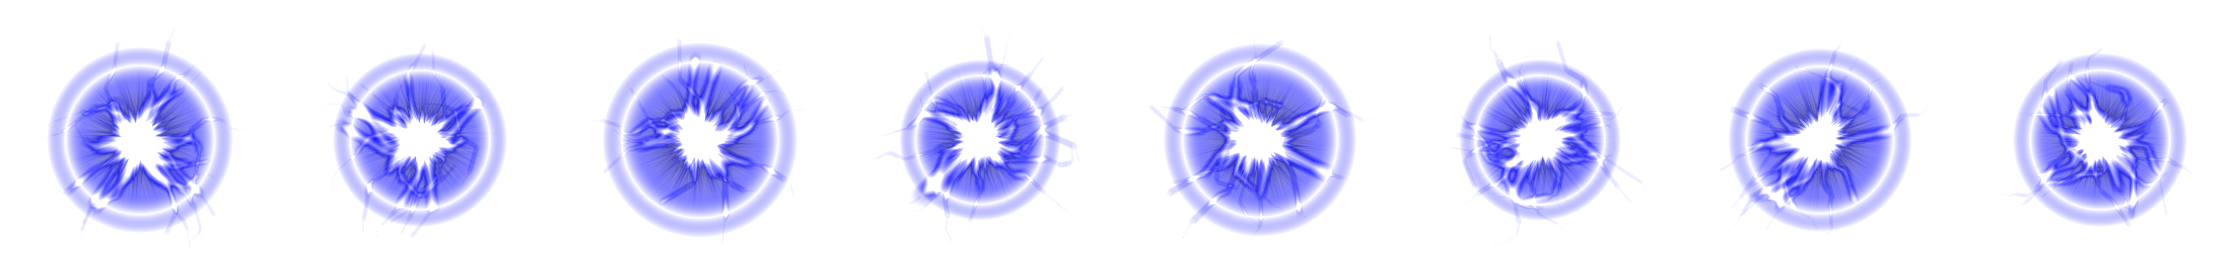
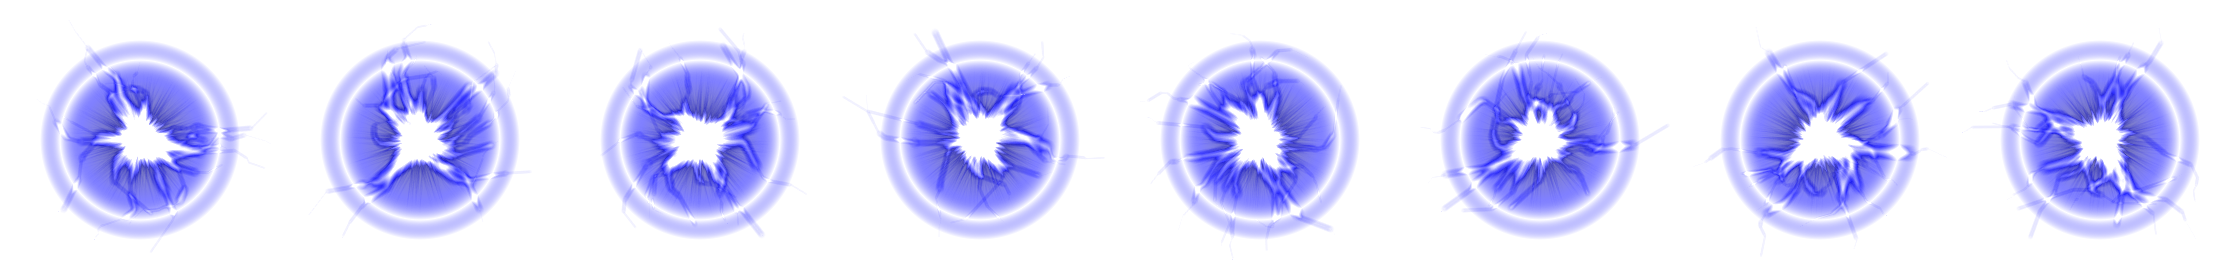
bomb

Changed region(s): [[0.375, 0.1429, 1.0, 0.8571], [0.0, 0.1429, 0.25, 0.8571], [0.2812, 0.1714, 0.3438, 0.8286]]

diff --git a/src/Bomb.js b/src/Bomb.js
@@ -1,6 +1,39 @@
 gls2.Bomb = tm.createClass({
-    init: function(scene) {
-        var b = tm.app.AnimationSprite(tm.app.SpriteSheet({
+    superClass: tm.app.Object2D,
+    gameScene: null,
+    init: function(player, gameScene) {
+        this.superInit();
+
+        this.player = player;
+        this.player.muteki = true;
+
+        this.gameScene = gameScene;
+        this.gameScene.bomb -= 1;
+        this.gameScene.isBombActive = true;
+        this.addChildTo(this.gameScene);
+
+        this.shockwave = tm.app.CircleShape(300, 300, {
+            strokeStyle: "rgba(0,0,0,0)",
+            fillStyle: tm.graphics.RadialGradient(150, 150, 0, 150, 150, 150)
+                .addColorStopList([
+                    { offset: 0.0, color: "rgba(255,255,255,0)" },
+                    { offset: 0.5, color: "rgba(255,255,255,0)" },
+                    { offset: 0.9, color: "rgba(255,255,255,1)" },
+                    { offset: 1.0, color: "rgba(255,255,255,0)" },
+                ])
+                .toStyle()
+        }).setScale(0.1, 0.1).addChildTo(this);
+        this.shockwave.tweener.clear()
+            .to({
+                scaleX: 3,
+                scaleY: 3,
+                alpha: 0,
+            }, 400, "easeOutQuad")
+            .call(function() {
+                this.remove();
+            }.bind(this.shockwave));
+
+        this.core = tm.app.AnimationSprite(tm.app.SpriteSheet({
             image: "bomb",
             frame: {
                 width: 280,
@@ -13,11 +46,22 @@ gls2.Bomb = tm.createClass({
                     frequency: 3,
                 }
             }
-        }), 280, 280).setPosition(SC_W/2, SC_H/2).addChildTo(scene);
-        b.gotoAndPlay("animation");
-        b.blendMode = "lighter";
+        }), 400, 400).addChildTo(this);
+        this.core.gotoAndPlay("animation");
+        this.core.blendMode = "lighter";
+        this.core.setScale(0.1, 0.1);
+        this.core.tweener.clear()
+            .to({
+                scaleX: 1.0,
+                scaleY: 1.0
+            }, 200, "easeOutBack")
+            .call(function() {
+                this.update = function() {
+                    this.scaleX = this.scaleY = Math.randf(0.9, 1.1);
+                };
+            }.bind(this.core));
 
-        var particle = gls2.Particle(60, 1.0, 0.92, tm.graphics.Canvas()
+        this.origParticle = gls2.Particle(60, 1.0, 0.92, tm.graphics.Canvas()
             .resize(10, 10)
             .setFillStyle(
                 tm.graphics.RadialGradient(10*0.5, 10*0.5, 0, 10*0.5, 10*0.5, 10*0.5)
@@ -29,17 +73,29 @@ gls2.Bomb = tm.createClass({
             .fillRect(0, 0, 10, 10)
             .element);
 
-        var a = 0;
-        var r = 0;
-        b.tweener.clear()
-            .call(function() {
-                for (var i = 0; i < 16; i++) {
-                    var t = a + i * Math.PI*2/16;
-                    particle.clone().setPosition(Math.cos(t)*r+SC_W/2, Math.sin(t)*r+SC_H/2).addChildTo(scene);
-                }
-                a += 0.05;
-                r = Math.sin(a*0.8)*200;
-            })
-            .setLoop(true);
+        this.a = 0;
+        this.r = 0;
+        this.b = 8;
+        this.age = 0;
+    },
+    update: function(app) {
+        for (var i = 0; i < this.b; i++) {
+            var t = this.a + i * Math.PI*2 / this.b;
+            this.origParticle.clone()
+                .setPosition(Math.cos(t)*this.r + this.x, Math.sin(t)*this.r + this.y)
+                .addChildTo(this.parent);
+        }
+        this.a += 0.04;
+        this.r = Math.sin(this.age * 0.02) * 250;
+
+        if (Math.PI * 2 < this.age * 0.02) {
+            this.player.muteki = false;
+            this.gameScene.isBombActive = false;
+            this.remove();
+        } else if (Math.PI < this.age * 0.02) {
+            this.b = 15;
+        }
+
+        this.age += 1;
     }
 });

diff --git a/src/scene/GameScene.js b/src/scene/GameScene.js
@@ -9,6 +9,9 @@ gls2.GameScene = tm.createClass({
     stage: null,
     ground: null,
     zanki: 3,
+    bomb: 0,
+    bombMax: 3,
+    isBombActive: false,
     groundLayer: null,
     playerLayer: null,
     enemyLayer: null,
@@ -99,6 +102,12 @@ gls2.GameScene = tm.createClass({
     },
 
     update: function(app) {
+        if (this.isBombActive) {
+            // TODO すべての敵にダメージ
+            // TODO すべての弾を消す
+            // TODO 自機を無敵に
+        }
+
         this.stage.update(app.frame);
 
         if (app.keyboard.getKeyDown("escape")) {
@@ -225,6 +234,7 @@ gls2.GameScene = tm.createClass({
             .call(function() {
                 this.muteki = false;
             }.bind(this.player));
+        this.bomb = this.bombMax;
     },
 
     miss: function() {

diff --git a/assets/raw/blackhall.html b/assets/raw/blackhall.html
@@ -12,7 +12,7 @@ tm.main(function() {
 
     var draw = function() {
         canvas.setFillStyle(
-            tm.graphics.RadialGradient(C, C, 0, C, C, R*Math.randf(0.8, 1.0))
+            tm.graphics.RadialGradient(C, C, 0, C, C, R)
                 .addColorStopList([
                     { offset: 0.00, color: "rgba(0, 0, 0, 0.5)" },
                     { offset: 0.60, color: "rgba(0, 0, 255, 0.5)" },
@@ -42,7 +42,7 @@ tm.main(function() {
 
         for (var i = 0; i < 20; i++) {
             var a = Math.randf(0, Math.PI * 2);
-            var len = Math.rand(80, 130);
+            var len = Math.rand(80, 150);
             var x = C;
             var y = C;
             var w = Math.rand(4, 12);

diff --git a/src/Player.js b/src/Player.js
@@ -181,6 +181,14 @@ gls2.Player = tm.createClass(
                 gls2.ShotBullet(this.x+7 - s*6, this.y-5, -90).addChildTo(this.gameScene);
                 gls2.ShotBullet(this.x+7 + s*6, this.y-5, -90).addChildTo(this.gameScene);
             }
+
+            if (kb.getKeyDown("x")) {
+                if (false) {
+                    // TODO ハイパー
+                } else if (!this.gameScene.isBombActive && this.gameScene.bomb > 0) {
+                    gls2.Bomb(this, this.gameScene).setPosition(this.x, Math.max(this.y - SC_H*0.5, SC_H*0.3));
+                }
+            }
         }
 
         this.hyperCircle0.visible = this.hyperCircle1.visible = this.hyperGauge === 100;

diff --git a/test.html b/test.html
@@ -27,6 +27,7 @@
 <script src="src/Player.js"></script>
 <script src="src/ShotBullet.js"></script>
 <script src="src/Laser.js"></script>
+<script src="src/Bomb.js"></script>
 <script src="src/Stage.js"></script>
 <script src="src/StageData.js"></script>
 <script src="src/Effect.js"></script>
